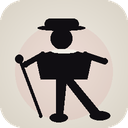
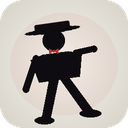
chore(tubefilm): 아이콘 재설계 — 버스터 키튼 풍 (포크파이 · 보타이 · 스트라이드)
레퍼런스 변경: 채플린 보울러 → 키튼 포크파이.
- 평평한 포크파이 모자 (16px에서도 실루엣 구분 용이)
- 콧수염 제거, 빨간 보타이 (누벨바그 액센트)
- 살짝 앞으로 기울인 stride 포즈 (-8°)
- 회전 합성을 위한 figure_layer + CompositingDraw 도입

https://claude.ai/code/session_01D5kPuoNyW73bCi9f5vu8eB

Changed region(s): [[0.0938, 0.125, 0.875, 1.0]]

diff --git a/scripts/generate_icons.py b/scripts/generate_icons.py
@@ -1,6 +1,6 @@
 """TubeFilm 아이콘 생성기.
 
-무성영화(채플린 풍) 캐릭터 실루엣 — 보울러 모자 + 지팡이 + 살짝 차는 다리 포즈.
+버스터 키튼 풍 실루엣 — 평평한 포크파이 모자 + 보타이 + 앞으로 기울인 스트라이드 포즈.
 사용법: python3 scripts/generate_icons.py
 출력: icons/icon{16,48,128}.png
 """
@@ -15,16 +15,16 @@ from PIL import Image, ImageDraw
 OUT_DIR = os.path.join(os.path.dirname(os.path.dirname(__file__)), "icons")
 SIZES = (16, 48, 128)
 
-BG = (242, 238, 230)
-BG_DARK = (215, 208, 195)
-FIGURE = (16, 14, 18)
-ACCENT = (200, 60, 70)
+BG = (248, 246, 238)
+BG_DARK = (210, 206, 196)
+FIGURE = (14, 12, 16)
+ACCENT = (190, 50, 55)
 
 
 def make_bg(size: int) -> Image.Image:
     img = Image.new("RGB", (size, size), BG)
     cx = cy = size / 2
-    max_r = size * 0.75
+    max_r = size * 0.78
     for y in range(size):
         for x in range(size):
             dx = (x - cx) / max_r
@@ -62,93 +62,147 @@ def thick_line(d: ImageDraw.ImageDraw, p1, p2, width, color=FIGURE) -> None:
     fcircle(d, p2[0], p2[1], width / 2, color)
 
 
-def draw_chaplin(d: ImageDraw.ImageDraw, S: int, detailed: bool) -> None:
-    cx = S * 0.50
-    base_y = S * 0.92
+def rotate_pt(p, center, angle_rad):
+    dx = p[0] - center[0]
+    dy = p[1] - center[1]
+    c = math.cos(angle_rad)
+    s = math.sin(angle_rad)
+    return (center[0] + dx * c - dy * s, center[1] + dx * s + dy * c)
 
+
+def draw_keaton(d: ImageDraw.ImageDraw, S: int, detailed: bool) -> None:
+    tilt = math.radians(-8)
+    pivot = (S * 0.50, S * 0.88)
+
+    base_y = S * 0.92
+    cx = S * 0.50
     head_r = S * 0.085
-    head_cx = cx - S * 0.02
-    head_cy = S * 0.30
-    fcircle(d, head_cx, head_cy, head_r)
+    head_cx = cx
+    head_cy = S * 0.31
+
+    head = (head_cx, head_cy)
+    head_rot = rotate_pt(head, pivot, tilt)
+    fcircle(d, head_rot[0], head_rot[1], head_r)
+
+    porkpie_brim_w = head_r * 2.55
+    porkpie_brim_h = head_r * 0.22
+    brim_center = rotate_pt(
+        (head_cx, head_cy - head_r * 0.92), pivot, tilt
+    )
+
+    crown_w = head_r * 1.6
+    crown_h = head_r * 0.65
+    crown_center = rotate_pt(
+        (head_cx, head_cy - head_r * 1.32), pivot, tilt
+    )
+
+    overlay_layer = Image.new("RGBA", (int(S), int(S)), (0, 0, 0, 0))
+    od = ImageDraw.Draw(overlay_layer, "RGBA")
+
+    od.ellipse(
+        (head_cx - porkpie_brim_w, head_cy - head_r * 0.92 - porkpie_brim_h,
+         head_cx + porkpie_brim_w, head_cy - head_r * 0.92 + porkpie_brim_h),
+        fill=FIGURE + (255,),
+    )
+    od.rounded_rectangle(
+        (head_cx - crown_w, head_cy - head_r * 1.32 - crown_h / 2,
+         head_cx + crown_w, head_cy - head_r * 1.32 + crown_h / 2),
+        radius=int(head_r * 0.15),
+        fill=FIGURE + (255,),
+    )
+
+    rot_layer = overlay_layer.rotate(
+        math.degrees(-tilt), center=pivot, resample=Image.BICUBIC
+    )
+    base = Image.new("RGBA", rot_layer.size, (0, 0, 0, 0))
+    base.alpha_composite(rot_layer)
+    d._image.alpha_composite(base)
+
+    neck_y = head_rot[1] + head_r * 0.9
+    shoulder_w = S * 0.20
+    shoulder_y = neck_y + S * 0.018
+    waist_w = S * 0.16
+    waist_y = S * 0.62
+
+    body_pts = [
+        rotate_pt((cx - shoulder_w * 0.5, shoulder_y), pivot, tilt),
+        rotate_pt((cx - shoulder_w, shoulder_y + S * 0.03), pivot, tilt),
+        rotate_pt((cx - waist_w, waist_y), pivot, tilt),
+        rotate_pt((cx + waist_w, waist_y), pivot, tilt),
+        rotate_pt((cx + shoulder_w, shoulder_y + S * 0.03), pivot, tilt),
+        rotate_pt((cx + shoulder_w * 0.5, shoulder_y), pivot, tilt),
+    ]
+    fpoly(d, body_pts)
 
     if detailed:
-        mustache_w = head_r * 0.9
-        mustache_h = head_r * 0.18
-        fellipse(d, head_cx, head_cy + head_r * 0.25, mustache_w, mustache_h)
-
-    hat_brim_w = head_r * 2.2
-    hat_brim_h = head_r * 0.25
-    fellipse(d, head_cx, head_cy - head_r * 0.95, hat_brim_w, hat_brim_h)
-
-    hat_w = head_r * 1.55
-    hat_h = head_r * 1.1
-    hat_top_y = head_cy - head_r * 1.85
-    d.rounded_rectangle(
-        (head_cx - hat_w, hat_top_y, head_cx + hat_w, head_cy - head_r * 0.85),
-        radius=int(head_r * 0.5),
-        fill=FIGURE,
-    )
-
-    neck_y = head_cy + head_r * 0.9
-    shoulder_w = S * 0.22
-    shoulder_y = neck_y + S * 0.02
-    waist_w = S * 0.18
-    waist_y = S * 0.62
-    coat_pts = [
-        (cx - shoulder_w * 0.4, shoulder_y),
-        (cx - shoulder_w, shoulder_y + S * 0.04),
-        (cx - waist_w, waist_y),
-        (cx + waist_w, waist_y),
-        (cx + shoulder_w, shoulder_y + S * 0.04),
-        (cx + shoulder_w * 0.4, shoulder_y),
-    ]
-    fpoly(d, coat_pts)
-
-    fellipse(d, cx, shoulder_y + S * 0.005, shoulder_w * 0.45, S * 0.015, BG)
+        bow_cx = head_rot[0]
+        bow_cy = neck_y + S * 0.008
+        bow_w = S * 0.035
+        bow_h = S * 0.018
+        bow_l = [
+            (bow_cx - bow_w, bow_cy - bow_h),
+            (bow_cx, bow_cy),
+            (bow_cx - bow_w, bow_cy + bow_h),
+        ]
+        bow_r = [
+            (bow_cx + bow_w, bow_cy - bow_h),
+            (bow_cx, bow_cy),
+            (bow_cx + bow_w, bow_cy + bow_h),
+        ]
+        fpoly(d, bow_l, ACCENT)
+        fpoly(d, bow_r, ACCENT)
+        fcircle(d, bow_cx, bow_cy, S * 0.008, ACCENT)
 
     leg_top_y = waist_y - S * 0.005
-    leg_w = max(1, int(S * 0.055))
+    back_foot_x = cx - S * 0.15
+    front_foot_x = cx + S * 0.20
 
-    back_foot = (cx - S * 0.04, base_y)
     fpoly(
         d,
         [
-            (cx - S * 0.06, leg_top_y),
-            (cx + S * 0.02, leg_top_y),
-            (back_foot[0] + S * 0.03, base_y),
-            (back_foot[0] - S * 0.02, base_y),
+            rotate_pt((cx - S * 0.08, leg_top_y), pivot, tilt),
+            rotate_pt((cx - S * 0.005, leg_top_y), pivot, tilt),
+            rotate_pt((back_foot_x + S * 0.035, base_y), pivot, tilt),
+            rotate_pt((back_foot_x - S * 0.035, base_y), pivot, tilt),
         ],
     )
-
-    front_foot = (cx + S * 0.30, base_y - S * 0.02)
     fpoly(
         d,
         [
-            (cx - S * 0.01, leg_top_y),
-            (cx + S * 0.07, leg_top_y),
-            (front_foot[0] + S * 0.01, front_foot[1] + S * 0.01),
-            (front_foot[0] - S * 0.08, front_foot[1] + S * 0.01),
+            rotate_pt((cx + S * 0.005, leg_top_y), pivot, tilt),
+            rotate_pt((cx + S * 0.08, leg_top_y), pivot, tilt),
+            rotate_pt((front_foot_x + S * 0.04, base_y - S * 0.01), pivot, tilt),
+            rotate_pt((front_foot_x - S * 0.04, base_y - S * 0.01), pivot, tilt),
         ],
     )
 
-    shoe_h = S * 0.035
-    fellipse(d, back_foot[0], base_y, S * 0.07, shoe_h)
-    fellipse(d, front_foot[0] - S * 0.02, front_foot[1] + S * 0.005, S * 0.08, shoe_h)
+    shoe_h = S * 0.03
+    back_shoe = rotate_pt((back_foot_x, base_y), pivot, tilt)
+    front_shoe = rotate_pt((front_foot_x, base_y - S * 0.005), pivot, tilt)
+    fellipse(d, back_shoe[0] - S * 0.01, back_shoe[1], S * 0.075, shoe_h)
+    fellipse(d, front_shoe[0] + S * 0.005, front_shoe[1], S * 0.085, shoe_h)
 
-    arm_w = max(1, int(S * 0.05))
-    near_shoulder = (cx - shoulder_w * 0.75, shoulder_y + S * 0.03)
-    near_hand = (cx - S * 0.30, S * 0.50)
-    thick_line(d, near_shoulder, near_hand, arm_w)
+    arm_w = max(1, int(S * 0.052))
+    back_shoulder = rotate_pt(
+        (cx - shoulder_w * 0.78, shoulder_y + S * 0.02), pivot, tilt
+    )
+    back_hand = rotate_pt((cx - S * 0.27, S * 0.66), pivot, tilt)
+    thick_line(d, back_shoulder, back_hand, arm_w)
 
-    far_shoulder = (cx + shoulder_w * 0.75, shoulder_y + S * 0.03)
-    far_hand = (cx + S * 0.32, S * 0.48)
-    thick_line(d, far_shoulder, far_hand, arm_w)
+    front_shoulder = rotate_pt(
+        (cx + shoulder_w * 0.78, shoulder_y + S * 0.02), pivot, tilt
+    )
+    front_hand = rotate_pt((cx + S * 0.30, S * 0.42), pivot, tilt)
+    thick_line(d, front_shoulder, front_hand, arm_w)
 
-    cane_top = (near_hand[0] - S * 0.05, near_hand[1] - S * 0.04)
-    cane_bottom = (near_hand[0] + S * 0.12, base_y - S * 0.01)
-    cane_w = max(1, int(S * 0.025))
-    thick_line(d, cane_top, cane_bottom, cane_w)
-    fcircle(d, cane_top[0], cane_top[1], cane_w * 1.4)
+
+class CompositingDraw:
+    def __init__(self, image: Image.Image):
+        self._image = image
+        self._draw = ImageDraw.Draw(image, "RGBA")
+
+    def __getattr__(self, name):
+        return getattr(self._draw, name)
 
 
 def make_icon(size: int) -> Image.Image:
@@ -156,19 +210,19 @@ def make_icon(size: int) -> Image.Image:
     detailed = work_size >= 96
 
     bg = make_bg(work_size).convert("RGBA")
-    overlay = Image.new("RGBA", (work_size, work_size), (0, 0, 0, 0))
-    d = ImageDraw.Draw(overlay, "RGBA")
-    draw_chaplin(d, work_size, detailed)
+    figure_layer = Image.new("RGBA", (work_size, work_size), (0, 0, 0, 0))
+    cd = CompositingDraw(figure_layer)
+    draw_keaton(cd, work_size, detailed)
 
     spot_overlay = Image.new("L", (work_size, work_size), 0)
     sd = ImageDraw.Draw(spot_overlay)
     sd.ellipse(
-        (work_size * 0.12, work_size * 0.18, work_size * 0.88, work_size * 0.94),
-        fill=22,
+        (work_size * 0.08, work_size * 0.10, work_size * 0.92, work_size * 0.90),
+        fill=14,
     )
     bg.paste(Image.new("RGB", bg.size, ACCENT), (0, 0), spot_overlay)
 
-    composed = Image.alpha_composite(bg, overlay)
+    composed = Image.alpha_composite(bg, figure_layer)
 
     radius = int(work_size * 0.18)
     mask = rounded_mask(work_size, radius)
